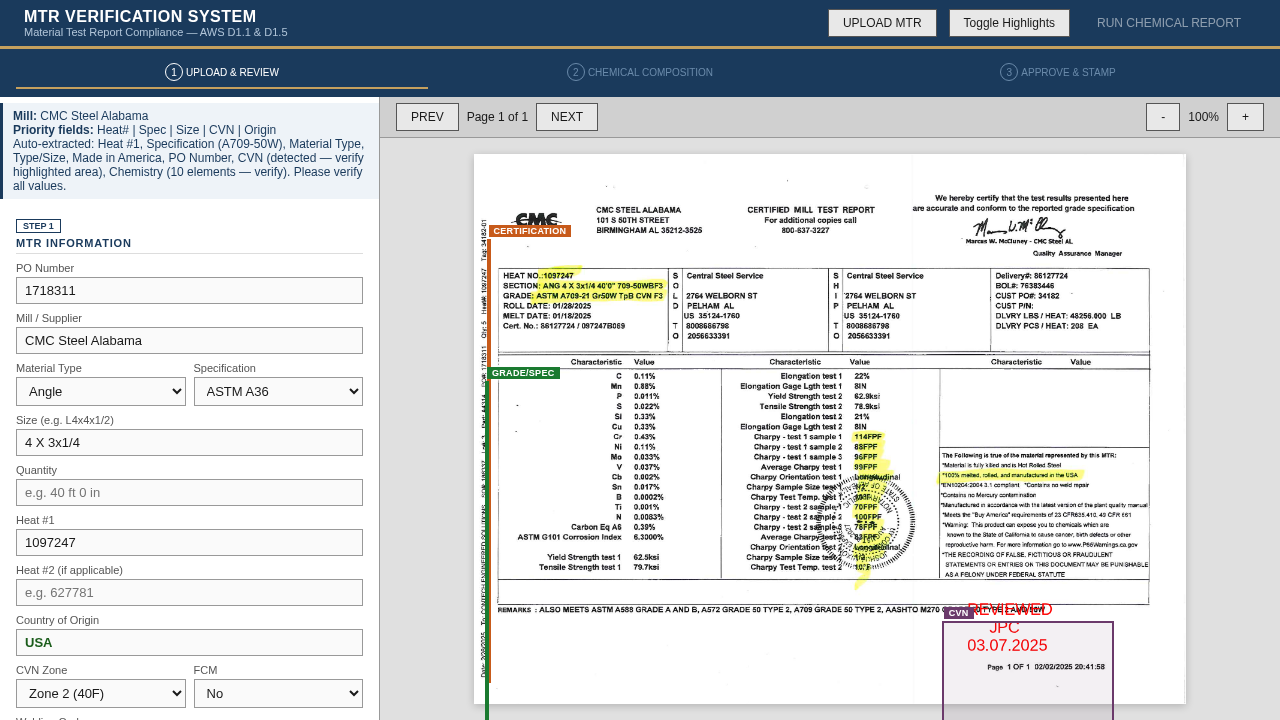
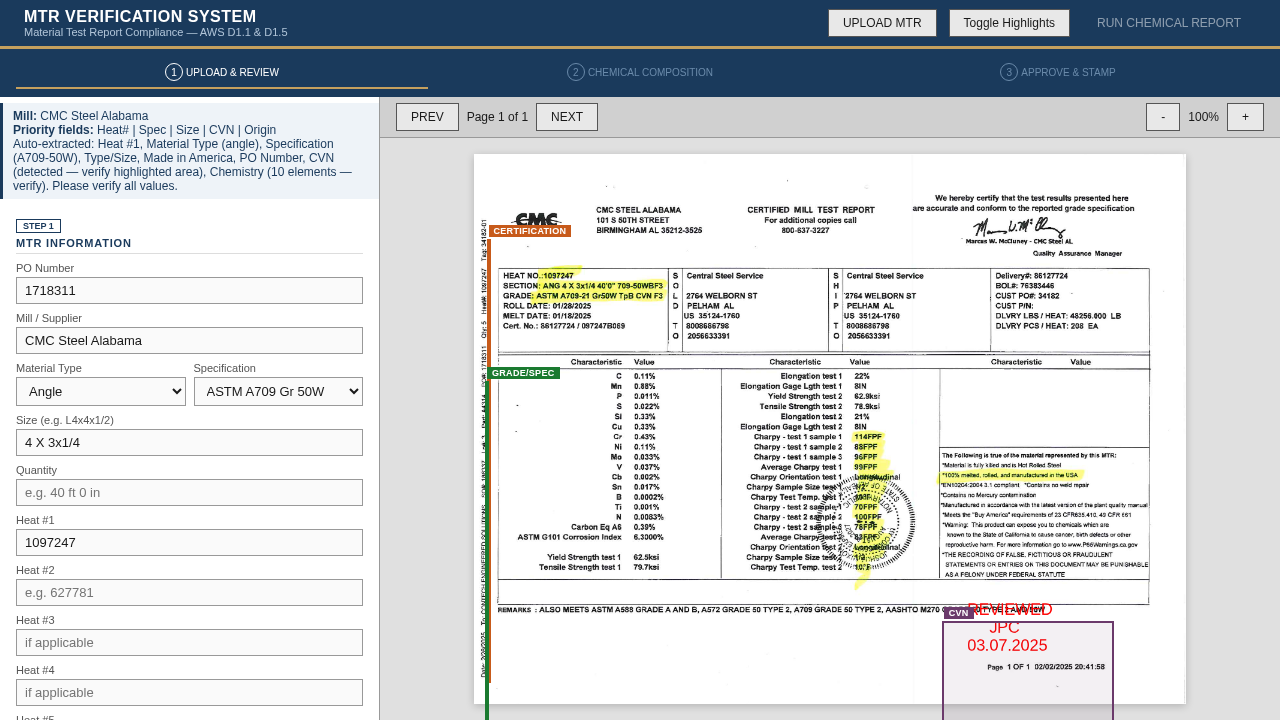
Auto-commit agent changes

diff --git a/conversations/6a6b81c94bc0607c48a32cc0/mtr_verifier.html b/conversations/6a6b81c94bc0607c48a32cc0/mtr_verifier.html
@@ -161,7 +161,7 @@ html,body{width:100%;height:100%;font-family:'Times New Roman',Georgia,serif;bac
         <div class="field"><label>Country of Origin</label><input id="country-origin" placeholder="e.g. USA" style="font-weight:bold;color:#1a5c1a"></div>
         <div class="field-row">
           <div class="field"><label>CVN Zone</label>
-            <select id="cvn-zone"><option value="1">Zone 1 (70F)</option><option value="2" selected>Zone 2 (40F)</option><option value="3">Zone 3 (10F)</option></select>
+            <select id="cvn-zone"><option value="" selected>— N/A —</option><option value="1">Zone 1 (70F)</option><option value="2">Zone 2 (40F)</option><option value="3">Zone 3 (10F)</option></select>
           </div>
           <div class="field"><label>FCM</label>
             <select id="fcm-select"><option value="N">No</option><option value="Y">Yes</option></select>
@@ -1361,7 +1361,7 @@ function extractWithTemplate(allWords, allText, millInfo) {
   }
 
   // --- CVN DETECTION ---
-  if (/CHARPY|CVN|IMPACT|V[-\s]?NOTCH/i.test(flat)) {
+  if (/CHARPY|CVN|V[-\s]?NOTCH/i.test(flat)) {
     results.cvnDetected = true;
     results.confidence.cvn = 0.85;
   }
@@ -1647,7 +1647,31 @@ function parseMtrText(text, area, allOcrWords) {
     }
   }
 
-  // ========== STEP 2: SPECIFICATION ==========
+  // ========== STEP 2: MATERIAL TYPE ==========
+  var matType = null;
+  // Detect material type from explicit text patterns — NO default guessing
+  if (/\bW\d{2,}\s*[xX]\s*\d+/i.test(flat)) matType = 'beam';
+  else if (/HSS|HOLLOW\s+STRUCT/i.test(flat)) matType = /SQUARE|RECT/i.test(flat) ? 'hss-square' : 'hss-round';
+  else if (/\bCHANNEL\b|\bC\s*\d+\s*[xX]\s*\d+\.?\d*/i.test(flat)) matType = 'channel';
+  else if (/\bANGLE\b|\bL\s*\d+\s*[xX]\s*\d+|\b\d+\s*[xX]\s*\d+\s*[xX]\s*\d+\/\d+/i.test(flat)) matType = 'angle';
+  else if (/\bPLATE\b|THICK/i.test(flat)) matType = 'plate';
+  else if (/\bFLAT\s*BAR\b/i.test(flat)) matType = 'flatbar';
+  else if (/\d+\.?\d*\s*x\s*\d+\.?\d*\s*x\s*\d/i.test(flat)) {
+    // 3-part dimension could be plate, HSS, or angle — check mill's products
+    if (template.products.indexOf('plate') !== -1) matType = 'plate';
+    else if (template.products.indexOf('hss') !== -1) matType = 'hss-square';
+    // Don't default to plate for mills that don't produce plate (CMC makes angles/channels)
+  }
+  if (matType) {
+    var matSelect = document.getElementById('mat-type');
+    for (var i = 0; i < matSelect.options.length; i++) {
+      if (matSelect.options[i].value === matType) { matSelect.selectedIndex = i; break; }
+    }
+    onMaterialChange();
+    found.push('Material Type (' + matType + ')');
+  }
+
+  // ========== STEP 3: SPECIFICATION ==========
   var specDetected = null;
 
   // Strategy 1: GRADE label parsing (most reliable for scanned MTRs)
@@ -1724,30 +1748,6 @@ function parseMtrText(text, area, allOcrWords) {
     found.push('Specification (' + specDetected + ')');
   }
 
-  // ========== STEP 3: MATERIAL TYPE ==========
-  var matType = null;
-  // Detect material type from explicit text patterns — NO default guessing
-  if (/\bW\d{2,}\s*[xX]\s*\d+/i.test(flat)) matType = 'beam';
-  else if (/HSS|HOLLOW\s+STRUCT/i.test(flat)) matType = /SQUARE|RECT/i.test(flat) ? 'hss-square' : 'hss-round';
-  else if (/\bCHANNEL\b|\bC\s*\d+\s*[xX]\s*\d+\.?\d*/i.test(flat)) matType = 'channel';
-  else if (/\bANGLE\b|\bL\s*\d+\s*[xX]\s*\d+|\b\d+\s*[xX]\s*\d+\s*[xX]\s*\d+\/\d+/i.test(flat)) matType = 'angle';
-  else if (/\bPLATE\b|THICK/i.test(flat)) matType = 'plate';
-  else if (/\bFLAT\s*BAR\b/i.test(flat)) matType = 'flatbar';
-  else if (/\d+\.?\d*\s*x\s*\d+\.?\d*\s*x\s*\d/i.test(flat)) {
-    // 3-part dimension could be plate, HSS, or angle — check mill's products
-    if (template.products.indexOf('plate') !== -1) matType = 'plate';
-    else if (template.products.indexOf('hss') !== -1) matType = 'hss-square';
-    // Don't default to plate for mills that don't produce plate (CMC makes angles/channels)
-  }
-  if (matType) {
-    var matSelect = document.getElementById('mat-type');
-    for (var i = 0; i < matSelect.options.length; i++) {
-      if (matSelect.options[i].value === matType) { matSelect.selectedIndex = i; break; }
-    }
-    onMaterialChange();
-    found.push('Material Type (' + matType + ')');
-  }
-
   // ========== STEP 4: SIZE/DESIGNATION ==========
   var sizeStr = null;
   if (matType === 'beam') {
@@ -1795,26 +1795,22 @@ function parseMtrText(text, area, allOcrWords) {
   }
 
   // ========== STEP 7: PO NUMBER ==========
-  // PO extraction — 7-digit PO numbers (17xxxxx, 18xxxxx, 19xxxxx)
-  // Also check filename for PO-XXXXXXX pattern
+  // PO extraction — our customer PO is 7 digits starting with 17, 18, or 19
+  // (DEN-xxxxx is the original customer's PO, not ours — ignore it)
   var poMatch = flat.match(/P\.?O\.?\s*(?:NO\.?|NUMBER|#)?\s*[:\-]?\s*(1[789]\d{5})\b/i) ||
-                flat.match(/\b(1[789]\d{5})\b(?=.*(?:HEAT|SLAB))/i) ||
-                flat.match(/P\.?O\.?\s*(?:NO\.?|NUMBER|#)?\s*[:\-]\s*([A-Z]{2,5}-\d{3,8})/i);
-  // Also check filename
+                flat.match(/\b(1[789]\d{5})\b/i);
+  // Also check filename for PO-XXXXXXX pattern
   if (!poMatch && fileName) {
     var fnPo = fileName.match(/PO[-\s]?(1[789]\d{5})/i);
     if (fnPo) poMatch = fnPo;
   }
   if (poMatch) {
-    var poVal = poMatch[1].trim();
-    if (poVal.length >= 3) {
-      document.getElementById('po-number').value = poVal;
-      found.push('PO Number');
-    }
+    document.getElementById('po-number').value = poMatch[1].trim();
+    found.push('PO Number');
   }
 
   // ========== STEP 8: CVN ==========
-  if (/CHARPY|CVN|IMPACT|V[-\s]?NOTCH/i.test(flat)) {
+  if (/CHARPY|CVN|V[-\s]?NOTCH/i.test(flat)) {
     found.push('CVN (detected — verify highlighted area)');
   }
 
@@ -1927,7 +1923,7 @@ function parseMtrText(text, area, allOcrWords) {
   if (heatNums.length > 0) priorityFields.push('Heat#'); else { priorityFields.push('Heat# (MISSING)'); missingFields.push('Heat Number'); }
   if (specDetected) priorityFields.push('Spec'); else { priorityFields.push('Spec (MISSING)'); missingFields.push('Specification'); }
   if (sizeStr) priorityFields.push('Size'); else { priorityFields.push('Size (MISSING)'); missingFields.push('Size/Designation'); }
-  if (/CHARPY|CVN|IMPACT|V[-\s]?NOTCH/i.test(flat)) priorityFields.push('CVN');
+  if (/CHARPY|CVN|V[-\s]?NOTCH/i.test(flat)) priorityFields.push('CVN');
   if (countryOrigin) priorityFields.push('Origin');
 
   var msg = '<div class="extract-status"><strong>Mill:</strong> ' + template.name + '<br><strong>Priority fields:</strong> ' + priorityFields.join(' | ') + '<br>Auto-extracted: ' + found.join(', ') + '. Please verify all values.</div>';
@@ -1959,8 +1955,33 @@ async function renderPage() {
   if (hlVisible) await drawHL();
   if (approvalState) drawStamp();
 }
-function prevPage() { if (curPage>1) { curPage--; renderPage(); } }
-function nextPage() { if (pdfDoc && curPage<pdfDoc.numPages) { curPage++; renderPage(); } }
+function prevPage() { if (curPage>1) { curPage--; renderPage(); reextractCurrentPage(); } }
+function nextPage() { if (pdfDoc && curPage<pdfDoc.numPages) { curPage++; renderPage(); reextractCurrentPage(); } }
+
+// Re-extract MTR data for the current page (for multi-page PDFs with different MTRs per page)
+async function reextractCurrentPage() {
+  if (!pageContentCache[curPage]) return; // page not OCR'd yet
+  var pageData = pageContentCache[curPage];
+  var pageText = pageData.text || '';
+  if (!pageText || pageText.trim().length < 20) return; // not enough text
+  
+  // Check if this page has its own heat numbers (indicating a separate MTR)
+  var hasHeat = /HEAT|MELT|SLAB/i.test(pageText);
+  if (!hasHeat) return; // continuation page — keep existing data
+  
+  // Clear form fields for new MTR
+  ['heat1','heat2','heat3','heat4','heat5','beam-type','po-number','quantity','country-origin'].forEach(function(id) {
+    var el = document.getElementById(id);
+    if (el) el.value = '';
+  });
+  document.getElementById('mat-type').selectedIndex = 0;
+  document.getElementById('spec-select').selectedIndex = 0;
+  
+  // Re-run extraction with this page's text
+  var extractArea = document.getElementById('extract-area');
+  var pageWords = pageData.words || [];
+  parseMtrText(pageText, extractArea, pageWords);
+}
 function zoomIn() { scale *= 1.2; renderPage(); }
 function zoomOut() { scale /= 1.2; renderPage(); }
 
